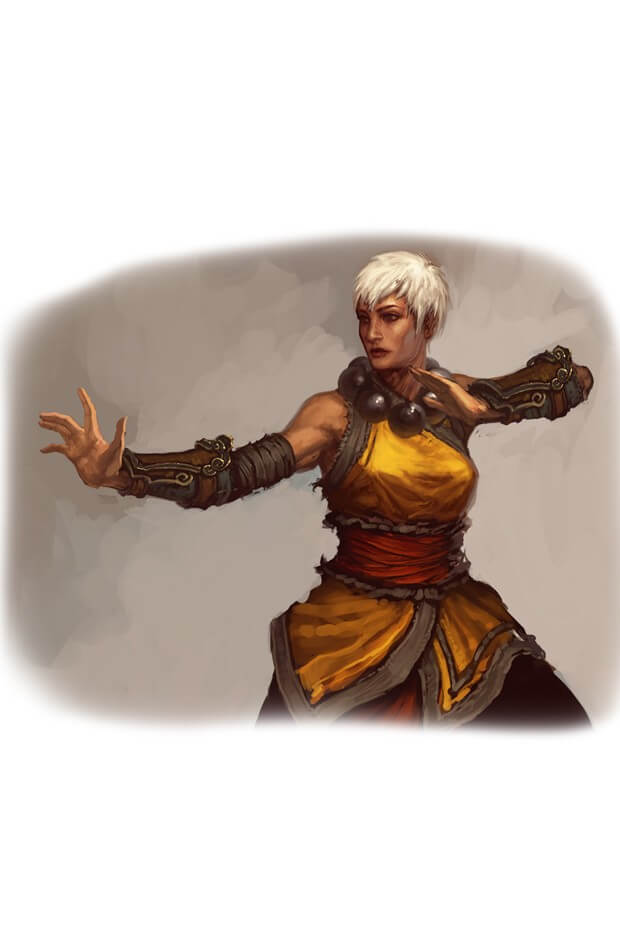
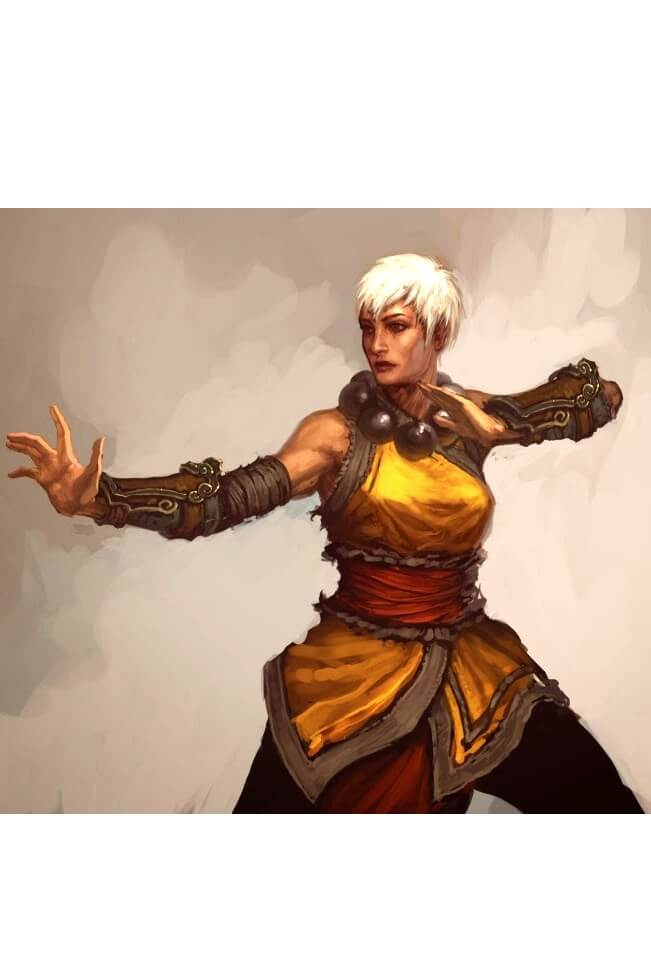
update sparks images

diff --git a/councilofthieves/heroes.html b/councilofthieves/heroes.html
@@ -123,7 +123,7 @@
       <article>
         <h2>Amaya</h2>
         <h3>Tian Bard 1 Expert 1</h3>
-        <img src="images/amaya1.jpg" alt="Amaya">
+        <img src="images/amaya2.jpg" alt="Amaya">
         <p>Description: Amaya is a well-mannered glassblower and an incredibly beautiful woman who is somewhat self-conscious about the effect her appearance has on others – she dresses plainly as a result. She hopes someday to visit her distant kin who still live in Magnimar and Sandpoint.</p>
         <p>Awakened Role: The Messenger - Amaya's magic specializes in communication. Combined with her knowledge of the city and its nobility, she can quickly get messages back and forth.</p>
         <p>Lesser Boon: Amaya can be used to bring needed items or gear to the party while on a mission. Once per mission, the party can send a mental request to Amaya to fetch gear (up to 500gp in value) for them from the city. This takes 1 hour to accomplish. If the party returns to the fall-back point after this time, it will be waiting for them there, though Amaya will expect to be reimbursed upon delivery.</p>
@@ -163,7 +163,7 @@
       <article>
         <h2>Larko</h2>
         <h3>Garundi Ranger 1 Commoner 1</h3>
-        <img src="images/larko1.jpg" alt="Larko">
+        <img src="images/larko2.jpg" alt="Larko">
         <p>Description: Larko lives a simple life as a dock worker, but daydreams of his childhood in the hills east of Westcrown. If he ever saves up the money, he hopes to move out of the city and live the quiet life. He’s the strong, silent type, rarely speaking.</p>
         <p>Awakened Role: The Guard - Larko finds that he does best when defending an area, and is most comfortable keeping an eye on things at the safe house. When out in the field, his training and warnings keep the party's eyes sharp.</p>
         <p>Lesser Boon: Larko grants a +2 bonus on Perception checks to avoid being surprised.</p>
@@ -173,7 +173,7 @@
       <article>
         <h2>Mathalen</h2>
         <h3>Chelish Monk 1 Commoner 1</h3>
-        <img src="images/mathalen1.jpg" alt="Mathalen">
+        <img src="images/mathalen2.jpg" alt="Mathalen">
         <p>Description: Mathalen is a thin and wiry woman who worked as a porter but found the job dreadfully dull. She frequently takes breaks to meditate and purge her mind of what she calls “the poisons of menial labor”.</p>
         <p>Awakened Role: The Scout - Mathalen is peerless when it comes to moving around the rooftops of westcrown or sneaking along its alleyways.</p>
         <p>Lesser Boon: Mathalen can scout out the outdoor areas of a mission location being investigated, giving them an outline of the layout, warnings about visible outdoor threats, and other such material. She only relays very basic details which are not always exact - Mathalen is still learning.</p>
@@ -183,7 +183,7 @@
       <article>
         <h2>Rizzardo</h2>
         <h3>Varisian Barbarian 1 Commoner 1</h3>
-        <img src="images/rizzardo1.jpg" alt="Rizzardo">
+        <img src="images/rizzardo2.jpg" alt="Rizzardo">
         <p>Description: After stowing away on a Chelish ship, Rizzardo found himself more-or-less-stuck in Westcrown years ago. He earns his keep working odd jobs, but switches jobs frequently as a result of his quick temper. He only joined because of a powerful attraction to Janiven, but has since grown to enjoy the company of the others, particularly Ermolos, who he insists sounds just like his little brother.</p>
         <p>Awakened Role: The Schock Trooper - Rizzardo takes his role quite literally. The inconspicuous nature of his bladed scarf allows him to walk quite easily into the midst of his enemies before he reveals the true nature of his weapon and creating havoc.</p>
         <p>Lesser Boon: Rizzardo grants himself and all allies on missions a +2 bouns on Initiative rolls if they act in the surprise round.</p>
@@ -203,7 +203,7 @@
       <article>
         <h2>Tarvi</h2>
         <h3>Chelish Illusionist Wizard 1 Commoner 1</h3>
-        <img src="images/tarvi1.jpg" alt="Tarvi">
+        <img src="images/tarvi2.jpg" alt="Tarvi">
         <p>Description: Tarvi’s parents own a prosperous jewelry store in Westcrown – the “Glitter Palace.” She’s worked there for years, but is far too witty and intelligent to do the job well. Having successfully sabotaged no less than a dozen attempts of her parents to marry her off to nobility, she clings to time for her true passion – the study of magic. Caring little for romance, she hopes to someday have the skills to create and sell magical jewelry.</p>
         <p>Awakened Role: The Spy - Tarvi mizes her expertise with illusions with a specialty in enchantments, allowing her to disguise herself as various people while charming and infiltrating enemy encampments.</p>
         <p>Lesser Boon: Tarvi can scout out the first few indoor areas of a mission area safely (roll 1d3 to determine number of rooms). She can use this information to relay an outline of the layout, provide a warning about visible indoor threats, and other such material. The details are very basic and not always exact - Tarvi is still inexperienced and does not have many spells. She May only do this once per day and once per mission.</p>
